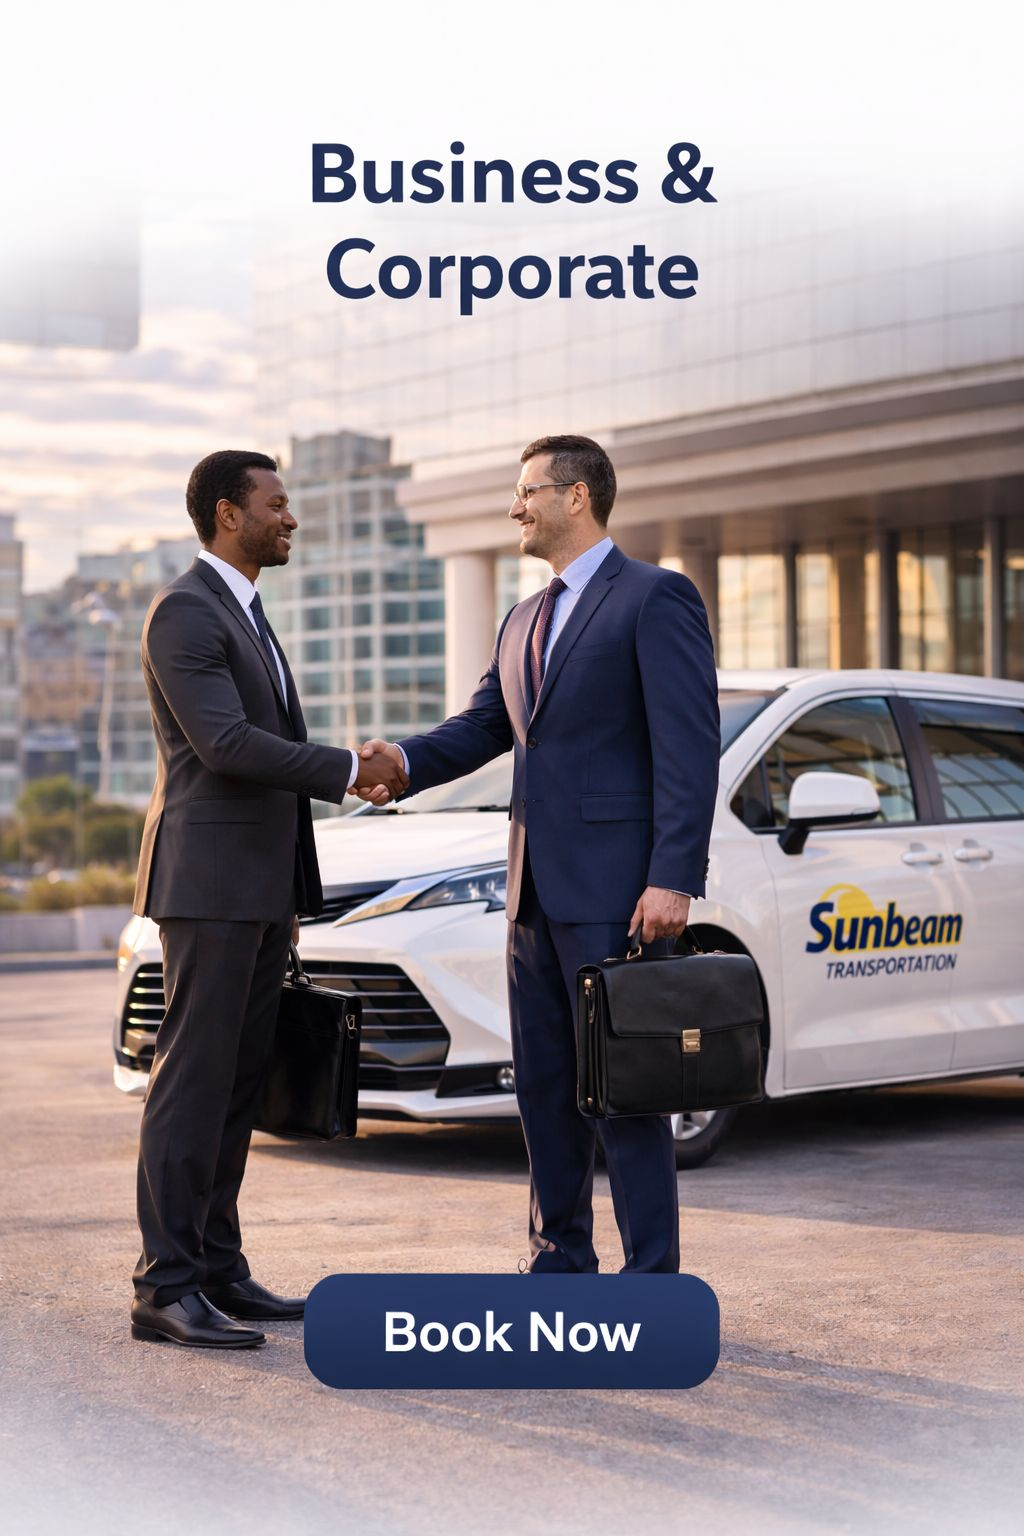
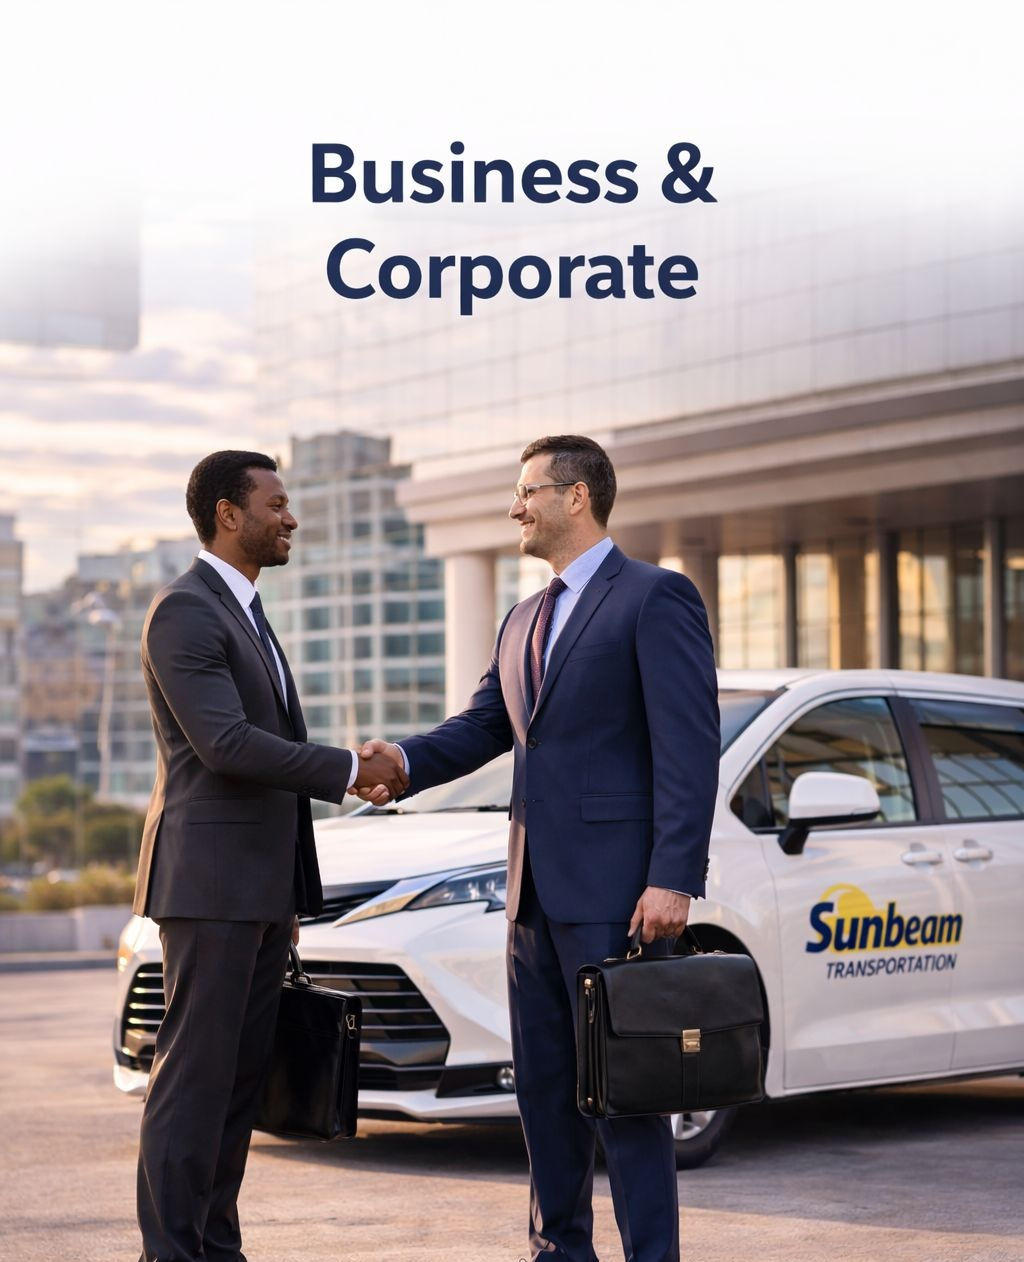
system design api

diff --git a/server/public/admin/system-design.html b/server/public/admin/system-design.html
@@ -264,23 +264,56 @@ CARDS
   display:grid;
 
   grid-template-columns:
-  repeat(auto-fit,minmax(360px,1fr));
+  repeat(auto-fit,minmax(420px,1fr));
 
-  gap:24px;
+  gap:28px;
+
+  align-items:start;
 
 }
+
+/* =========================
+SERVICE CARD
+========================= */
 
 .service-card{
 
-  border:1px solid #e2e8f0;
+  background:
+  linear-gradient(
+  135deg,
+  #ffffff,
+  #f8fbff
+  );
 
-  border-radius:24px;
+  border:
+  2px solid #dbeafe;
 
-  padding:20px;
+  border-radius:32px;
 
-  background:#fff;
+  padding:34px;
+
+  box-shadow:
+  0 14px 40px rgba(37,99,235,.08);
+
+  transition:.25s;
 
 }
+
+.service-card:hover{
+
+  transform:
+  translateY(-4px);
+
+  box-shadow:
+  0 18px 50px rgba(37,99,235,.16);
+
+  border-color:#93c5fd;
+
+}
+
+/* =========================
+TOP
+========================= */
 
 .service-top{
 
@@ -290,23 +323,194 @@ CARDS
 
   align-items:center;
 
-  gap:14px;
+  gap:18px;
 
-  margin-bottom:18px;
+  margin-bottom:28px;
+
+  flex-wrap:wrap;
 
 }
 
 .service-title{
 
-  font-size:22px;
+  font-size:30px;
 
   font-weight:900;
+
+  color:#1d4ed8;
+
+  line-height:1.2;
+
+}
+
+/* =========================
+INPUT GROUP
+========================= */
+
+.input-group{
+
+  display:flex;
+
+  flex-direction:column;
+
+  gap:10px;
+
+  margin-bottom:24px;
+
+}
+
+.input-group label{
+
+  font-size:16px;
+
+  font-weight:900;
+
+  color:#334155;
+
+}
+
+.input-group input,
+.input-group textarea,
+.input-group select{
+
+  width:100%;
+
+  border:
+  2px solid #dbeafe;
+
+  border-radius:20px;
+
+  padding:18px;
+
+  font-size:16px;
+
+  background:#ffffff;
+
+  outline:none;
+
+  transition:.2s;
+
+  color:#0f172a;
+
+}
+
+.input-group input:focus,
+.input-group textarea:focus,
+.input-group select:focus{
+
+  border-color:#2563eb;
+
+  box-shadow:
+  0 0 0 4px rgba(37,99,235,.10);
+
+}
+
+.input-group textarea{
+
+  min-height:150px;
+
+  resize:vertical;
+
+  line-height:1.9;
+
+}
+
+/* =========================
+IMAGE
+========================= */
+
+.preview-image{
+
+  width:100%;
+
+  height:220px;
+
+  object-fit:cover;
+
+  border-radius:24px;
+
+  background:#eef2ff;
+
+  border:
+  2px solid #dbeafe;
+
+  margin-bottom:18px;
+
+}
+
+/* =========================
+BUTTONS
+========================= */
+
+.upload-btn,
+.save-btn,
+.reset-btn,
+.disable-btn{
+
+  border:none;
+
+  border-radius:18px;
+
+  padding:16px 22px;
+
+  font-size:16px;
+
+  font-weight:900;
+
+  cursor:pointer;
+
+  color:#fff;
+
+  transition:.2s;
+
+}
+
+.upload-btn{
+
+  background:#2563eb;
+
+}
+
+.save-btn{
+
+  background:#16a34a;
+
+}
+
+.reset-btn{
+
+  background:#dc2626;
+
+}
+
+.disable-btn{
+
+  background:#64748b;
+
+}
+
+.upload-btn:hover,
+.save-btn:hover,
+.reset-btn:hover,
+.disable-btn:hover{
+
+  transform:
+  translateY(-2px);
+
+  opacity:.94;
 
 }
 
 .card-save{
+
   width:100%;
-  margin-top:18px;
+
+  margin-top:14px;
+
+  min-height:58px;
+
+  font-size:18px;
+
 }
 
 /* =========================
@@ -315,38 +519,35 @@ MOBILE
 
 @media(max-width:768px){
 
-  .page-title{
-    font-size:30px;
-  }
-
-  .section-title{
-    font-size:22px;
-  }
-
   .cards-grid{
+
     grid-template-columns:1fr;
+
+  }
+
+  .service-card{
+
+    padding:22px;
+
+    border-radius:24px;
+
+  }
+
+  .service-title{
+
+    font-size:24px;
+
   }
 
   .service-top{
+
     flex-direction:column;
+
     align-items:stretch;
+
   }
 
 }
-
-</style>
-
-</head>
-
-<body>
-
-<div id="adminHeader"></div>
-
-<div class="page-body">
-
-  <div class="page-title">
-    System Design
-  </div>
 
   <!-- =========================
        BRANDING